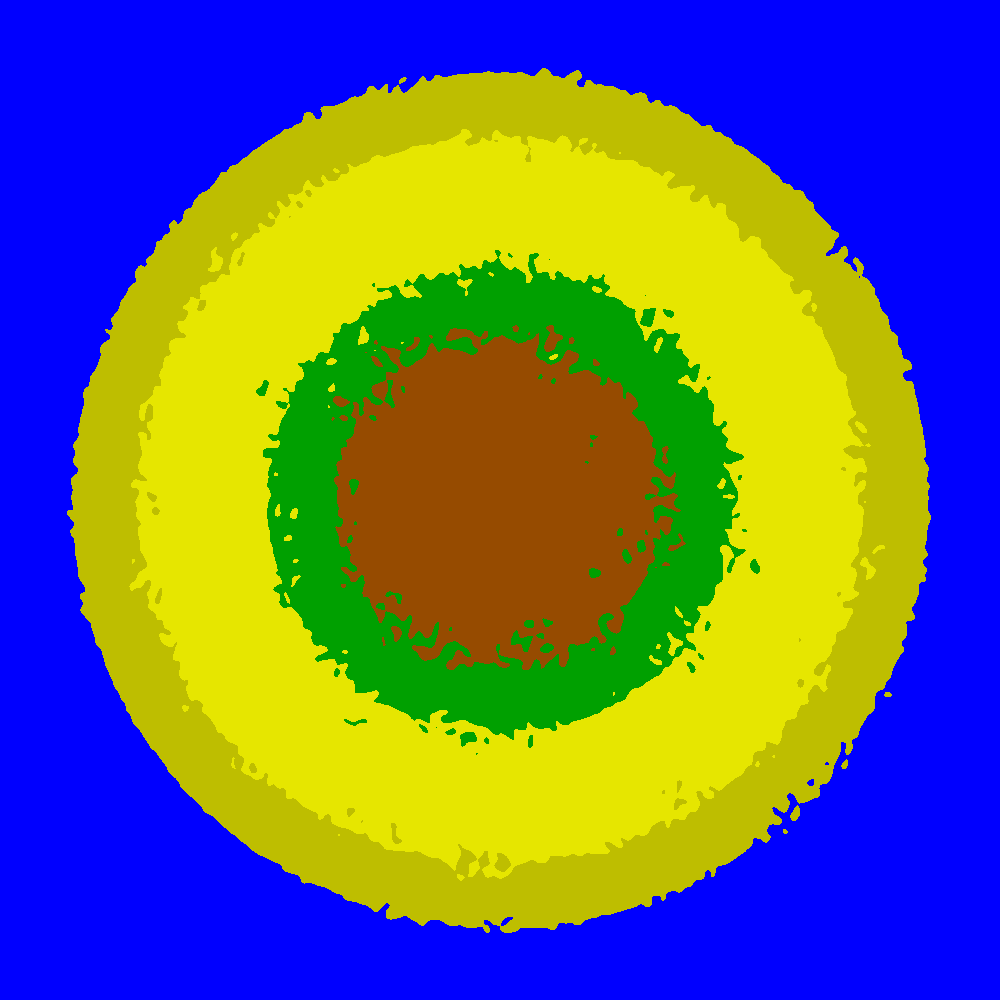
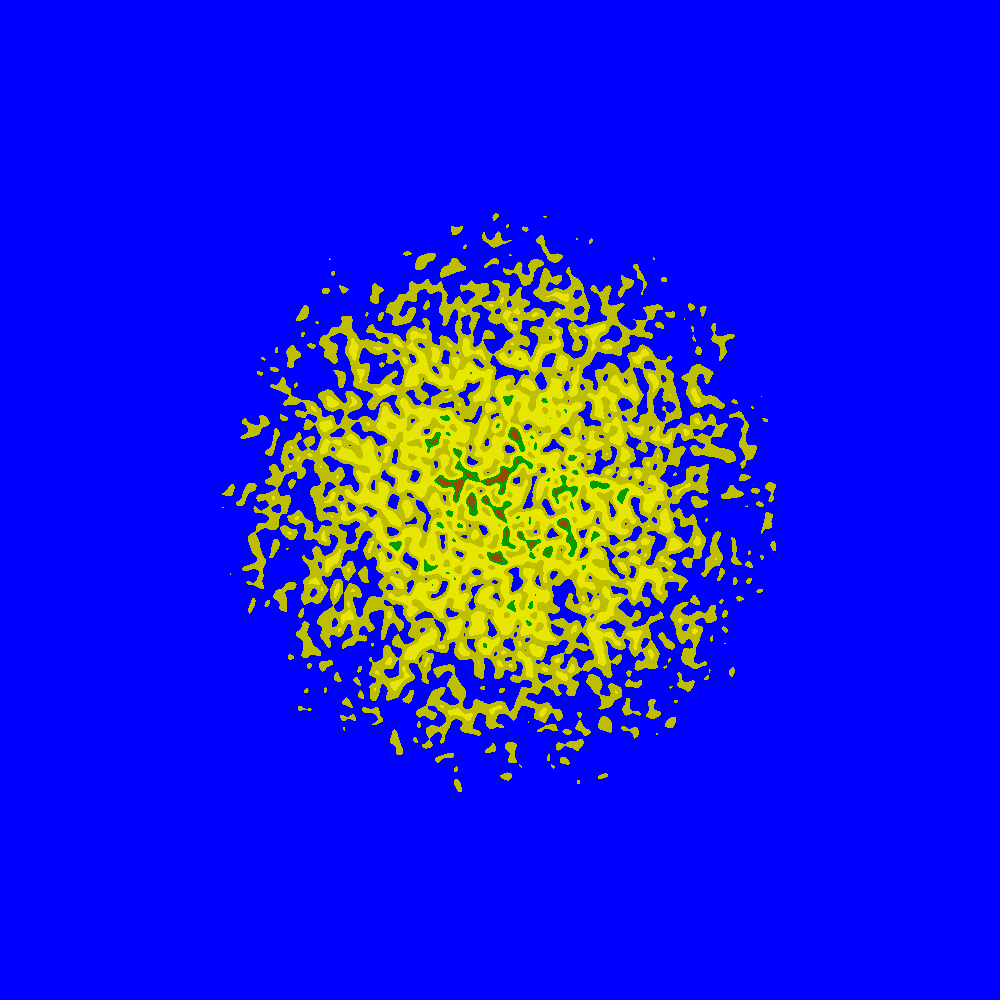
trying to change the shape of the island

diff --git a/src/main.rs b/src/main.rs
@@ -5,18 +5,20 @@ use spatial2d::*;
 
 fn main() {
     //setting the size of the y and x axis
-    let x_size: u32 = 1000;
+    let size = UVec2::new(1000, 1000);
 
-    let y_size = 1000;
+    let rng = Rng::new();
+
+    let extra_distance = rng.gen_bool(0.5);
 
     //creating a matrix based on x and y variable sizes
     let mut terrain_map: Matrix<f32> = Matrix::new(UVec2 {
-        x: x_size,
-        y: y_size,
+        x: size.x,
+        y: size.y,
     });
 
     //creating a an image buffer based on the x and y variable sizes
-    let mut image_buffer = RgbImage::new(x_size, y_size);
+    let mut image_buffer = RgbImage::new(size.x, size.y);
 
     //creating a variable for the Rng crate
     let rng_generator = Rng::new();
@@ -28,11 +30,21 @@ fn main() {
     let noise_generator = OpenSimplexNoise::new(Some(random_seed));
 
     let matrix_centre: UVec2 = (UVec2 {
-        x: (x_size),
-        y: (y_size),
+        x: (size.x),
+        y: (size.y),
     }) / 2;
 
-    let max_distance = 500.00;
+    let max_distance_x = size.x / 2;
+
+    let max_distance_y = size.y / 2;
+
+    if extra_distance == true {
+        max_distance_x * 2;
+    } else if extra_distance == false {
+        max_distance_y * 2;
+    }
+
+    let max_distance = UVec2::new(max_distance_x, max_distance_y);
 
     //looping through the matrix and assigning noise values to each value in the matrix
     for (value, position) in terrain_map.iter_with_pos_mut() {
@@ -40,20 +52,30 @@ fn main() {
             noise_generator.eval_2d((position.x as f64) / 10.0, (position.y as f64) / 10.0);
 
         let second_noise_value =
-            noise_generator.eval_2d((position.x as f64) / 50.0, (position.y as f64) / 50.0);
+            noise_generator.eval_2d((position.x as f64) / 30.0, (position.y as f64) / 30.0);
 
         let third_noise_value =
-            noise_generator.eval_2d((position.x as f64) / 80.0, (position.y as f64) / 80.0);
-
-        let noise_value = first_noise_value * second_noise_value * third_noise_value;
+            noise_generator.eval_2d((position.x as f64) / 10.0, (position.y as f64) / 10.0);
 
         let distance = matrix_centre.distance_euclidian(position);
 
-        let normalised_distance = (distance / max_distance).min(1.0);
+        let normalised_x_distance = (distance / max_distance_x as f32).min(1.0);
 
-        let inverted_distance = 1.0 - normalised_distance;
+        let normalised_y_distance = (distance / max_distance_y as f32).min(1.0);
 
-        *value = (((noise_value as f32) + 1.0) / 2.0) * inverted_distance;
+        let inverted_distance;
+
+        if extra_distance == true {
+            let inverted_distance = 1.0 - normalised_x_distance;
+        } else if extra_distance == false {
+            let inverter_distance = 1.0 - normalised_y_distance;
+        }
+
+        let first_value = (((first_noise_value as f32) + 1.0) / 2.0) * inverted_distance;
+        let second_value = (((second_noise_value as f32) + 1.0) / 2.0) * inverted_distance;
+        let third_value = (((third_noise_value as f32) + 1.0) / 2.0) * inverted_distance;
+
+        *value = first_value * second_value * third_value;
 
         let square_root = value.sqrt();
 
